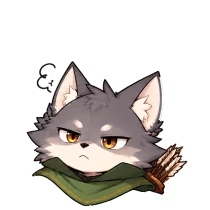
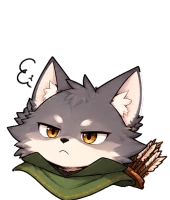
首頁四頭按新版150與170寬等比排列，保留香香默默物件

Changed region(s): [[0.0294, 0.27, 1.0, 1.0]]

diff --git a/js/pages/cover.js b/js/pages/cover.js
@@ -7,7 +7,7 @@ function renderCover(loading=false){
       <h1>毛絨絨小隊</h1>
     </div>
     <p class="sub">${PAGE_UI.coverIntro}<br>${PAGE_UI.coverNext}</p>
-    <div class="cover-party">${HOME_HEADS.map((src,i)=>`<img fetchpriority="high" decoding="async" ${loading?`data-image-source="${src}"`:`src="${src}"`} width="210" height="210" alt="${CRITTERS[i].name}">`).join('')}</div>
+    <div class="cover-party">${HOME_HEADS.map((src,i)=>`<img fetchpriority="high" decoding="async" ${loading?`data-image-source="${src}"`:`src="${src}"`} width="${i<2?150:170}" height="200" alt="${CRITTERS[i].name}">`).join('')}</div>
     ${loading?'<div class="image-startup" role="status"><label>讀取中 <span id="imageProgressText">0%</span></label><progress aria-label="圖片讀取進度" value="0" max="1"></progress><button class="btn small" id="retryImages" hidden>重試</button></div>':''}
     <button class="btn" id="start" ${loading?'disabled':''}>推開酒館大門</button>
     <button class="btn small ghost cover-about" data-about>關於／授權</button>

diff --git a/css/style.css b/css/style.css
@@ -1194,8 +1194,8 @@ button:focus-visible{outline:3px solid var(--honey);outline-offset:3px}
 
 /* 首面集中讀取：預留正式首頁位置，完成後原位揭示。 */
 body.image-boot{background:#000}
-.cover-party{display:flex;position:relative;justify-content:center}
-.cover-party img{display:block;width:25%;height:auto;min-width:0;aspect-ratio:1}
+.cover-party{display:grid;position:relative;grid-template-columns:150fr 150fr 170fr 170fr;align-items:end}
+.cover-party img{display:block;width:100%;height:auto;min-width:0}
 .cover-loading{position:relative}
 .cover-loading .lanterns,.cover-loading .sign,.cover-loading .sub,.cover-loading #start,.cover-loading .cover-about{visibility:hidden;pointer-events:none}
 .cover-loading .cover-party img{animation:head-load-sway 2.4s ease-in-out infinite;transform-origin:50% 85%}
